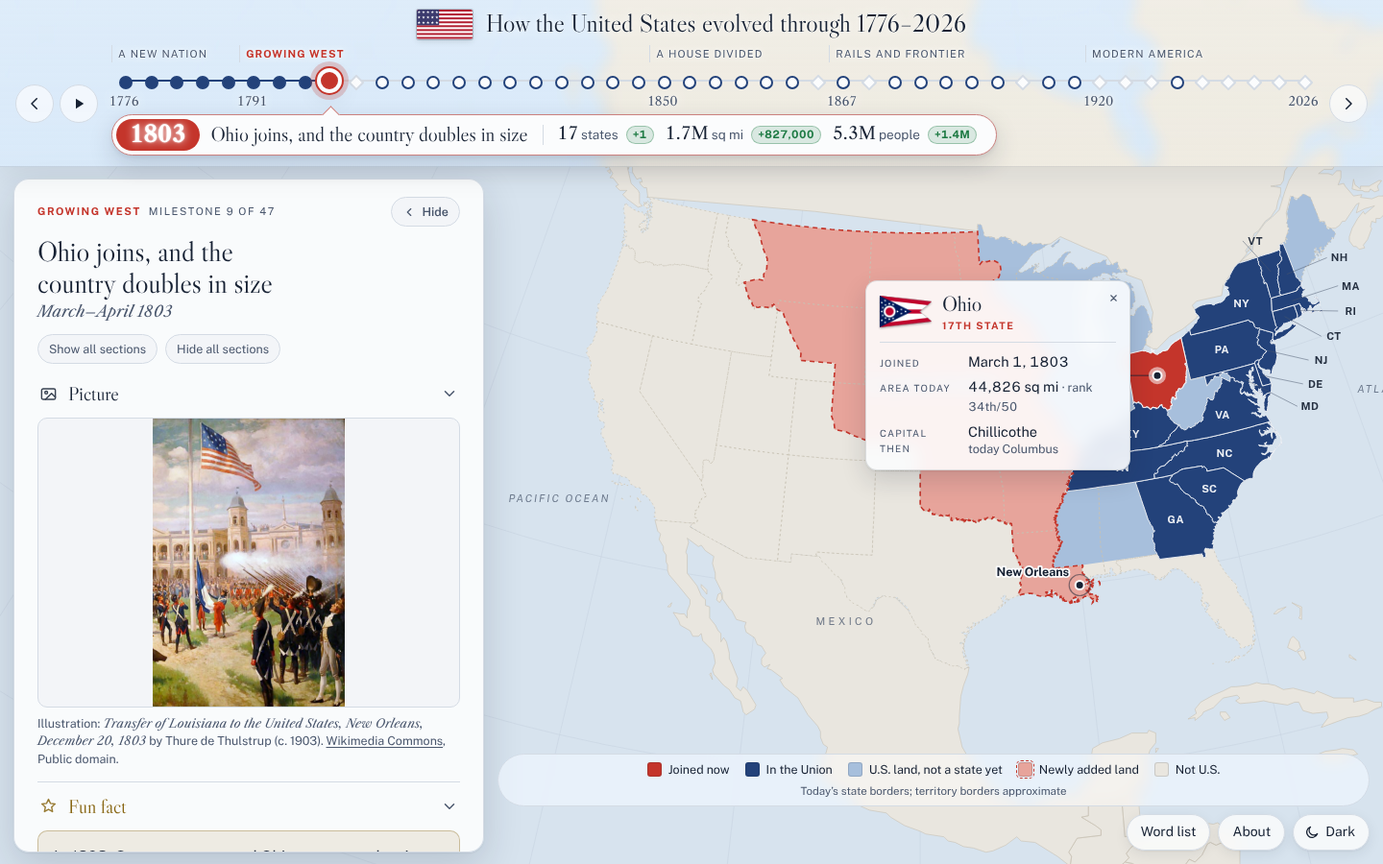
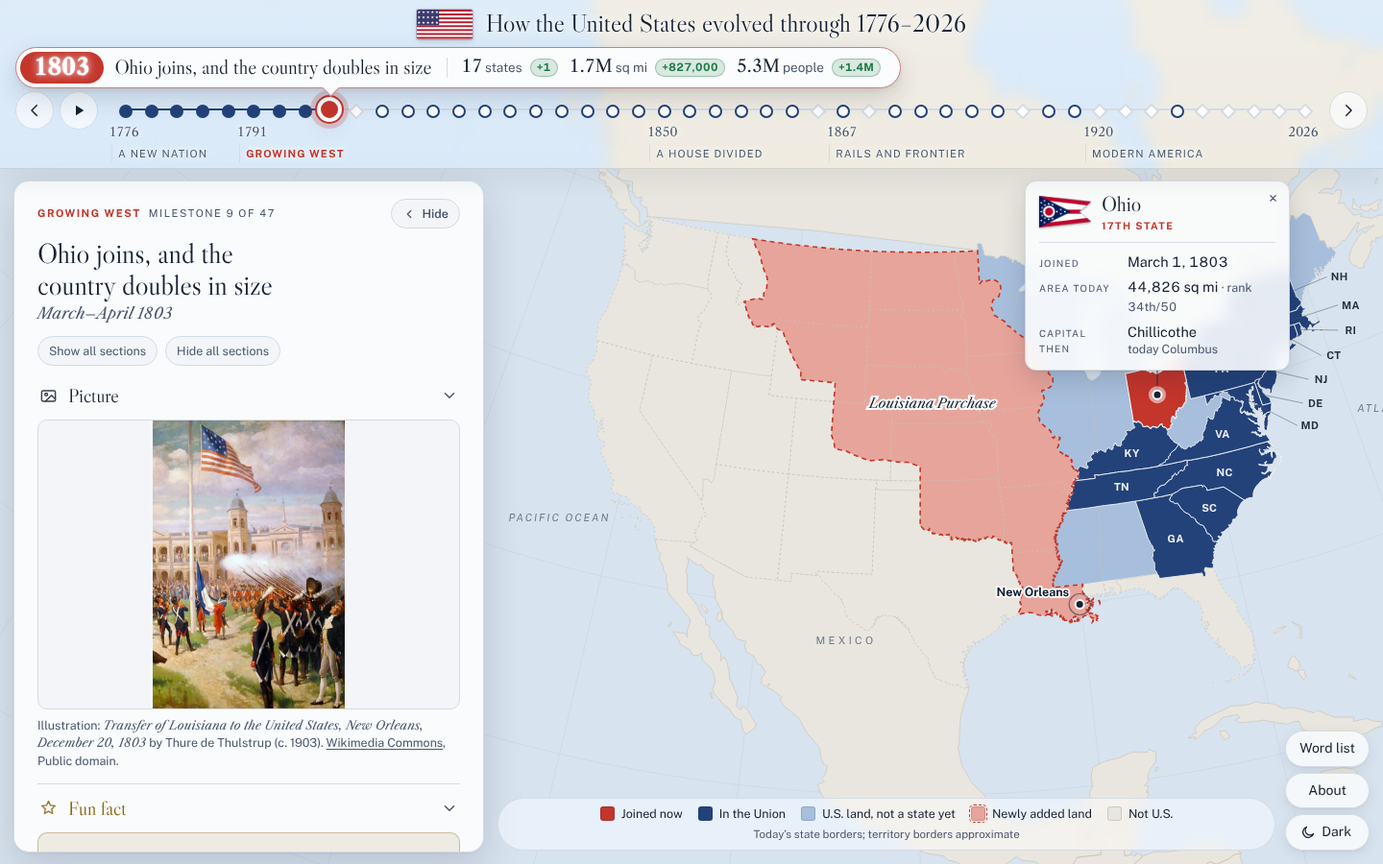
Reorder the top bar and stack the corner buttons
- Top bar, from top to bottom: the title with the flag of the day; the
  milestone caption (year, title, counts), now pointing down at the
  slider handle; the timeline with the year labels; and the era names
  (A New Nation, Growing West, ...) along the bottom.
- Word list, About and Dark/Light are stacked vertically in the bottom
  right corner, so the map key gets the full width beside them. The map
  reserves only the key's height at the bottom, and state bubbles keep
  clear of the button stack.
- On phones the caption sits above the timeline, and the buttons stay
  in a row under the map key.

Claude-Session: https://claude.ai/code/session_019zRrgJDS26ZMEPvqq3vbkH

diff --git a/index.html b/index.html
@@ -118,9 +118,11 @@ a { color: inherit; }
 .map-foot {
   position: absolute; z-index: 6; right: max(14px, env(safe-area-inset-right, 0px)); bottom: calc(14px + env(safe-area-inset-bottom, 0px));
   max-width: calc(100% - min(490px, 37vw) - 42px);
-  display: flex; flex-wrap: wrap; align-items: center; justify-content: flex-end; gap: 8px 10px;
+  display: flex; align-items: flex-end; justify-content: flex-end; gap: 10px;
 }
-.tools { display: flex; gap: 8px; flex: none; }
+.map-foot .legend { flex: 0 1 auto; min-width: 0; }
+.tools { display: flex; flex-direction: column; align-items: stretch; gap: 6px; flex: none; }
+.tools .btn-quiet { display: inline-flex; align-items: center; justify-content: center; gap: 6px; }
 .btn-quiet {
   border: 1px solid var(--rule); border-radius: 999px; padding: 7px 14px; font-size: 14px; cursor: pointer; color: var(--ink);
   background: color-mix(in srgb, var(--sheet) 82%, transparent); -webkit-backdrop-filter: blur(7px); backdrop-filter: blur(7px);
@@ -349,7 +351,7 @@ ul.why li::before { content: ""; position: absolute; left: 4px; top: .62em; widt
   padding-left: max(16px, env(safe-area-inset-left, 0px));
   padding-right: max(16px, env(safe-area-inset-right, 0px));
 }
-.tl-row { display: grid; grid-template-columns: auto minmax(0, 1fr) auto; align-items: center; gap: 14px; }
+.tl-row { display: grid; grid-template-columns: auto minmax(0, 1fr) auto; align-items: start; gap: 14px; }
 .tl-btns { display: flex; gap: 6px; }
 .round {
   width: 40px; height: 40px; border-radius: 50%; border: 1px solid var(--rule); background: var(--paper);
@@ -358,22 +360,22 @@ ul.why li::before { content: ""; position: absolute; left: 4px; top: .62em; widt
 .round:hover { border-color: var(--ink-2); }
 .round svg { width: 18px; height: 18px; fill: none; stroke: currentColor; stroke-width: 2; stroke-linecap: round; stroke-linejoin: round; }
 .round.play svg { fill: currentColor; stroke: none; }
-.track { position: relative; height: 122px; --thumb: 26px; min-width: 0; }
-.eras { position: absolute; left: 0; right: 0; top: 0; height: 18px; }
+.track { position: relative; height: 76px; --thumb: 26px; min-width: 0; }
+.eras { position: absolute; left: 0; right: 0; top: 56px; height: 18px; }
 .era-band { position: absolute; top: 0; height: 18px; font-size: 11px; letter-spacing: .1em; text-transform: uppercase; color: var(--ink-2); white-space: nowrap; overflow: hidden; text-overflow: ellipsis; border-left: 1px solid var(--rule); padding-left: 6px; line-height: 18px; }
 .era-band.cur { color: var(--new); font-weight: 700; }
-.ticks { position: absolute; left: 0; right: 0; top: 30px; height: 14px; pointer-events: none; }
-.rail { position: absolute; left: calc(var(--thumb) / 2); right: calc(var(--thumb) / 2); top: 36px; height: 2px; background: var(--rule); border-radius: 2px; }
+.ticks { position: absolute; left: 0; right: 0; top: 12px; height: 14px; pointer-events: none; }
+.rail { position: absolute; left: calc(var(--thumb) / 2); right: calc(var(--thumb) / 2); top: 18px; height: 2px; background: var(--rule); border-radius: 2px; }
 .rail .fill { position: absolute; left: 0; top: 0; bottom: 0; background: var(--union); border-radius: 2px; transition: width .3s; }
 .tick { position: absolute; top: 2px; width: 10px; height: 10px; margin-left: -5px; border-radius: 50%; background: var(--sheet); border: 2px solid var(--rule); }
 .tick.state { border-color: var(--union); }
 .tick.past { background: var(--union); border-color: var(--union); }
 .tick.past:not(.state) { background: var(--ink-2); border-color: var(--ink-2); }
 .tick:not(.state) { width: 8px; height: 8px; margin-left: -4px; top: 3px; border-radius: 1px; transform: rotate(45deg); }
-.ylabels { position: absolute; left: 0; right: 0; top: 50px; height: 18px; pointer-events: none; }
+.ylabels { position: absolute; left: 0; right: 0; top: 34px; height: 18px; pointer-events: none; }
 .ylabel { position: absolute; transform: translateX(-50%); font: 400 13px var(--f-serif); color: var(--ink-2); font-variant-numeric: lining-nums tabular-nums; }
 #slider {
-  position: absolute; left: 0; right: 0; top: 24px; width: 100%; height: 26px; margin: 0;
+  position: absolute; left: 0; right: 0; top: 6px; width: 100%; height: 26px; margin: 0;
   -webkit-appearance: none; appearance: none; background: transparent; cursor: pointer;
 }
 #slider::-webkit-slider-runnable-track { height: 26px; background: transparent; }
@@ -388,16 +390,17 @@ ul.why li::before { content: ""; position: absolute; left: 4px; top: .62em; widt
 #slider:focus-visible { outline: none; }
 #slider:focus-visible::-webkit-slider-thumb { box-shadow: 0 0 0 4px var(--focus); }
 #slider:focus-visible::-moz-range-thumb { box-shadow: 0 0 0 4px var(--focus); }
+.cap-row { position: relative; height: 46px; margin: 2px 0 0; }
 .tl-cap {
-  position: absolute; top: 72px; left: 0; z-index: 1; max-width: 100%;
+  position: absolute; top: 0; left: 0; z-index: 1; max-width: 100%;
   display: inline-flex; align-items: center; gap: 12px; padding: 4px 20px 4px 4px;
   background: var(--sheet); border: 1.5px solid color-mix(in srgb, var(--new) 55%, var(--rule)); border-radius: 999px;
   box-shadow: 0 2px 4px rgb(22 33 51 / .08), 0 10px 26px rgb(22 33 51 / .16);
   white-space: nowrap; transition: left .25s ease;
 }
 .tl-cap::before {
-  content: ""; position: absolute; top: -7px; left: var(--caret, 50%); width: 12px; height: 12px; margin-left: -6px;
-  background: var(--sheet); border-left: 1.5px solid color-mix(in srgb, var(--new) 55%, var(--rule)); border-top: 1.5px solid color-mix(in srgb, var(--new) 55%, var(--rule)); transform: rotate(45deg);
+  content: ""; position: absolute; bottom: -7px; left: var(--caret, 50%); width: 12px; height: 12px; margin-left: -6px;
+  background: var(--sheet); border-right: 1.5px solid color-mix(in srgb, var(--new) 55%, var(--rule)); border-bottom: 1.5px solid color-mix(in srgb, var(--new) 55%, var(--rule)); transform: rotate(45deg);
 }
 .cap-yr { flex: none; padding: 3px 14px 4px; border-radius: 999px; background: var(--new); color: #fff; font: 700 24px/1.1 var(--f-serif); letter-spacing: .01em; font-variant-numeric: lining-nums tabular-nums; }
 .cap-t { min-width: 0; overflow: hidden; text-overflow: ellipsis; font: 400 21px/1.25 var(--f-display); color: var(--ink); }
@@ -429,7 +432,7 @@ ul.why li::before { content: ""; position: absolute; left: 4px; top: .62em; widt
   .stage { position: static; order: 2; }
   .mapwrap { height: auto; }
   .map-foot { order: 3; position: static; max-width: none; display: block; }
-  .tools { padding: 10px 16px 12px; background: var(--sheet); border-bottom: 1px solid var(--rule); }
+  .tools { flex-direction: row; padding: 10px 16px 12px; background: var(--sheet); border-bottom: 1px solid var(--rule); }
   .btn-quiet { backdrop-filter: none; box-shadow: none; background: var(--paper); }
   .titlebar { gap: 10px; padding-bottom: 4px; }
   .titlebar h1 { font-size: 18px; }
@@ -452,13 +455,13 @@ ul.why li::before { content: ""; position: absolute; left: 4px; top: .62em; widt
   .ylabel:not(.edge) { display: none; }
   .tick { width: 6px; height: 6px; margin-left: -3px; top: 4px; border-width: 1.5px; }
   .tick:not(.state) { width: 5px; height: 5px; margin-left: -2.5px; top: 4.5px; }
-  .track { --thumb: 22px; height: 150px; }
+  .track { --thumb: 22px; height: 76px; }
   .cap-yr { font-size: 20px; }
   .tl-cap { white-space: normal; border-radius: 16px; align-items: flex-start; flex-wrap: wrap; padding: 4px 12px 6px 4px; }
   .cap-stats { flex-basis: 100%; margin: 2px 0 0 4px; padding-left: 0; border-left: 0; gap: 10px; flex-wrap: wrap; font-size: 12.5px; }
   .cap-stats .cs b.n { font-size: 16px; }
-  .track { height: auto; }
-  .tl-cap { position: relative; top: auto; left: 0 !important; margin: 72px 0 6px; max-width: 100%; }
+  .cap-row { height: auto; margin: 2px 0 10px; }
+  .tl-cap { position: relative; left: 0 !important; max-width: 100%; }
   .cap-t { font-size: 16.5px; padding-top: 3px; flex: 1 1 0; }
   .cap-stats { gap: 4px 12px; }
   #slider::-webkit-slider-thumb { width: 22px; height: 22px; margin-top: 2px; }
@@ -483,6 +486,9 @@ ul.why li::before { content: ""; position: absolute; left: 4px; top: .62em; widt
       </div>
       <h1>How the United States evolved through 1776–2026</h1>
     </div>
+    <div class="cap-row" id="cap-row">
+      <div class="tl-cap" id="tl-cap" aria-live="polite"><b class="cap-yr" id="yr">1776</b><span class="cap-t" id="cap-t"></span><span class="cap-stats" id="cap-stats"></span></div>
+    </div>
     <nav class="tl-row" aria-label="Timeline">
     <div class="tl-btns">
       <button class="round" id="btn-prev" type="button" aria-label="Previous milestone"><svg viewBox="0 0 24 24"><path d="M15 5l-7 7 7 7"/></svg></button>
@@ -494,7 +500,6 @@ ul.why li::before { content: ""; position: absolute; left: 4px; top: .62em; widt
       <div class="ticks" id="ticks"></div>
       <div class="ylabels" id="ylabels"></div>
       <input type="range" id="slider" min="0" max="1" step="1" value="0" aria-label="Choose a milestone">
-      <div class="tl-cap" id="tl-cap" aria-live="polite"><b class="cap-yr" id="yr">1776</b><span class="cap-t" id="cap-t"></span><span class="cap-stats" id="cap-stats"></span></div>
     </div>
     <div class="tl-btns">
       <button class="round" id="btn-next" type="button" aria-label="Next milestone"><svg viewBox="0 0 24 24"><path d="M9 5l7 7-7 7"/></svg></button>
@@ -930,9 +935,9 @@ function targetBox() {
 }
 // Space taken at the top and bottom by the glass bars (desktop, where they float over the map)
 function barInsets() {
-  const tl = $('.timeline'), ft = $('#map-foot');
+  const tl = $('.timeline'), lg = $('#legend');
   if (getComputedStyle(tl).position !== 'absolute') return [0, 0];
-  return [tl.offsetHeight + 4, ft.offsetHeight + 26];
+  return [tl.offsetHeight + 4, lg.offsetHeight + 34];
 }
 // Fit the frame, centered, into the map area between the bars
 function storyInset() {
@@ -1140,6 +1145,7 @@ function placeEach(A, F) {
   const placed = [], dots = A.map(a => [a.ax, a.ay]);
   const pinBox = !pin.hasAttribute('hidden') ? pin.getBoundingClientRect() : null, base = svg.getBoundingClientRect();
   const pinR = pinBox ? { x: pinBox.left - base.left, y: pinBox.top - base.top, w: pinBox.width, h: pinBox.height } : null;
+  const tb = $('.tools').getBoundingClientRect(), toolsR = { x: tb.left - base.left - 8, y: tb.top - base.top - 8, w: tb.width + 16, h: tb.height + 16 };
   for (const a of A.slice().sort((p, q) => p.ay - q.ay)) {
     const { w, h, ax, ay } = a, cands = [];
     for (const G of [28, 64]) cands.push(
@@ -1152,6 +1158,7 @@ function placeEach(A, F) {
       placed.forEach(o => cost += overlap(r, o) * 60);
       dots.forEach(d => { if (inside(d, r, 10)) cost += 4000; });
       if (pinR) cost += overlap(r, pinR) * 8;
+      cost += overlap(r, toolsR) * 60;
       if (!best || cost < best.cost) best = { ...r, cost };
     });
     a.x = best.x; a.y = best.y; a.side = null;
@@ -1216,14 +1223,14 @@ if (document.fonts && document.fonts.ready) document.fonts.ready.then(() => layo
 function renderMilestone(s) {
   $('#cap-t').textContent = s.title;
 }
-// keep the caption under the slider thumb, inside the track, with its caret pointing at the thumb
+// keep the caption above the slider handle, inside the bar, with its caret pointing down at the handle
 function placeCaption() {
-  const track = $('#track'), cap = $('#tl-cap');
+  const track = $('#track'), cap = $('#tl-cap'), row = $('#cap-row');
   const tw = track.clientWidth, thumb = parseFloat(getComputedStyle(track).getPropertyValue('--thumb')) || 22;
-  const x = thumb / 2 + (tw - thumb) * cur / (N - 1);
-  const w = cap.offsetWidth;
+  const x = track.getBoundingClientRect().left - row.getBoundingClientRect().left + thumb / 2 + (tw - thumb) * cur / (N - 1);
+  const w = cap.offsetWidth, rw = row.clientWidth;
   const inFlow = getComputedStyle(cap).position === 'relative';
-  const left = inFlow ? 0 : Math.max(0, Math.min(tw - w, x - w / 2));
+  const left = inFlow ? 0 : Math.max(0, Math.min(rw - w, x - w / 2));
   cap.style.left = left + 'px';
   cap.style.setProperty('--caret', Math.max(14, Math.min(w - 14, x - left)) + 'px');
 }

diff --git a/build/app.html b/build/app.html
@@ -112,9 +112,11 @@ a { color: inherit; }
 .map-foot {
   position: absolute; z-index: 6; right: max(14px, env(safe-area-inset-right, 0px)); bottom: calc(14px + env(safe-area-inset-bottom, 0px));
   max-width: calc(100% - min(490px, 37vw) - 42px);
-  display: flex; flex-wrap: wrap; align-items: center; justify-content: flex-end; gap: 8px 10px;
+  display: flex; align-items: flex-end; justify-content: flex-end; gap: 10px;
 }
-.tools { display: flex; gap: 8px; flex: none; }
+.map-foot .legend { flex: 0 1 auto; min-width: 0; }
+.tools { display: flex; flex-direction: column; align-items: stretch; gap: 6px; flex: none; }
+.tools .btn-quiet { display: inline-flex; align-items: center; justify-content: center; gap: 6px; }
 .btn-quiet {
   border: 1px solid var(--rule); border-radius: 999px; padding: 7px 14px; font-size: 14px; cursor: pointer; color: var(--ink);
   background: color-mix(in srgb, var(--sheet) 82%, transparent); -webkit-backdrop-filter: blur(7px); backdrop-filter: blur(7px);
@@ -343,7 +345,7 @@ ul.why li::before { content: ""; position: absolute; left: 4px; top: .62em; widt
   padding-left: max(16px, env(safe-area-inset-left, 0px));
   padding-right: max(16px, env(safe-area-inset-right, 0px));
 }
-.tl-row { display: grid; grid-template-columns: auto minmax(0, 1fr) auto; align-items: center; gap: 14px; }
+.tl-row { display: grid; grid-template-columns: auto minmax(0, 1fr) auto; align-items: start; gap: 14px; }
 .tl-btns { display: flex; gap: 6px; }
 .round {
   width: 40px; height: 40px; border-radius: 50%; border: 1px solid var(--rule); background: var(--paper);
@@ -352,22 +354,22 @@ ul.why li::before { content: ""; position: absolute; left: 4px; top: .62em; widt
 .round:hover { border-color: var(--ink-2); }
 .round svg { width: 18px; height: 18px; fill: none; stroke: currentColor; stroke-width: 2; stroke-linecap: round; stroke-linejoin: round; }
 .round.play svg { fill: currentColor; stroke: none; }
-.track { position: relative; height: 122px; --thumb: 26px; min-width: 0; }
-.eras { position: absolute; left: 0; right: 0; top: 0; height: 18px; }
+.track { position: relative; height: 76px; --thumb: 26px; min-width: 0; }
+.eras { position: absolute; left: 0; right: 0; top: 56px; height: 18px; }
 .era-band { position: absolute; top: 0; height: 18px; font-size: 11px; letter-spacing: .1em; text-transform: uppercase; color: var(--ink-2); white-space: nowrap; overflow: hidden; text-overflow: ellipsis; border-left: 1px solid var(--rule); padding-left: 6px; line-height: 18px; }
 .era-band.cur { color: var(--new); font-weight: 700; }
-.ticks { position: absolute; left: 0; right: 0; top: 30px; height: 14px; pointer-events: none; }
-.rail { position: absolute; left: calc(var(--thumb) / 2); right: calc(var(--thumb) / 2); top: 36px; height: 2px; background: var(--rule); border-radius: 2px; }
+.ticks { position: absolute; left: 0; right: 0; top: 12px; height: 14px; pointer-events: none; }
+.rail { position: absolute; left: calc(var(--thumb) / 2); right: calc(var(--thumb) / 2); top: 18px; height: 2px; background: var(--rule); border-radius: 2px; }
 .rail .fill { position: absolute; left: 0; top: 0; bottom: 0; background: var(--union); border-radius: 2px; transition: width .3s; }
 .tick { position: absolute; top: 2px; width: 10px; height: 10px; margin-left: -5px; border-radius: 50%; background: var(--sheet); border: 2px solid var(--rule); }
 .tick.state { border-color: var(--union); }
 .tick.past { background: var(--union); border-color: var(--union); }
 .tick.past:not(.state) { background: var(--ink-2); border-color: var(--ink-2); }
 .tick:not(.state) { width: 8px; height: 8px; margin-left: -4px; top: 3px; border-radius: 1px; transform: rotate(45deg); }
-.ylabels { position: absolute; left: 0; right: 0; top: 50px; height: 18px; pointer-events: none; }
+.ylabels { position: absolute; left: 0; right: 0; top: 34px; height: 18px; pointer-events: none; }
 .ylabel { position: absolute; transform: translateX(-50%); font: 400 13px var(--f-serif); color: var(--ink-2); font-variant-numeric: lining-nums tabular-nums; }
 #slider {
-  position: absolute; left: 0; right: 0; top: 24px; width: 100%; height: 26px; margin: 0;
+  position: absolute; left: 0; right: 0; top: 6px; width: 100%; height: 26px; margin: 0;
   -webkit-appearance: none; appearance: none; background: transparent; cursor: pointer;
 }
 #slider::-webkit-slider-runnable-track { height: 26px; background: transparent; }
@@ -382,16 +384,17 @@ ul.why li::before { content: ""; position: absolute; left: 4px; top: .62em; widt
 #slider:focus-visible { outline: none; }
 #slider:focus-visible::-webkit-slider-thumb { box-shadow: 0 0 0 4px var(--focus); }
 #slider:focus-visible::-moz-range-thumb { box-shadow: 0 0 0 4px var(--focus); }
+.cap-row { position: relative; height: 46px; margin: 2px 0 0; }
 .tl-cap {
-  position: absolute; top: 72px; left: 0; z-index: 1; max-width: 100%;
+  position: absolute; top: 0; left: 0; z-index: 1; max-width: 100%;
   display: inline-flex; align-items: center; gap: 12px; padding: 4px 20px 4px 4px;
   background: var(--sheet); border: 1.5px solid color-mix(in srgb, var(--new) 55%, var(--rule)); border-radius: 999px;
   box-shadow: 0 2px 4px rgb(22 33 51 / .08), 0 10px 26px rgb(22 33 51 / .16);
   white-space: nowrap; transition: left .25s ease;
 }
 .tl-cap::before {
-  content: ""; position: absolute; top: -7px; left: var(--caret, 50%); width: 12px; height: 12px; margin-left: -6px;
-  background: var(--sheet); border-left: 1.5px solid color-mix(in srgb, var(--new) 55%, var(--rule)); border-top: 1.5px solid color-mix(in srgb, var(--new) 55%, var(--rule)); transform: rotate(45deg);
+  content: ""; position: absolute; bottom: -7px; left: var(--caret, 50%); width: 12px; height: 12px; margin-left: -6px;
+  background: var(--sheet); border-right: 1.5px solid color-mix(in srgb, var(--new) 55%, var(--rule)); border-bottom: 1.5px solid color-mix(in srgb, var(--new) 55%, var(--rule)); transform: rotate(45deg);
 }
 .cap-yr { flex: none; padding: 3px 14px 4px; border-radius: 999px; background: var(--new); color: #fff; font: 700 24px/1.1 var(--f-serif); letter-spacing: .01em; font-variant-numeric: lining-nums tabular-nums; }
 .cap-t { min-width: 0; overflow: hidden; text-overflow: ellipsis; font: 400 21px/1.25 var(--f-display); color: var(--ink); }
@@ -423,7 +426,7 @@ ul.why li::before { content: ""; position: absolute; left: 4px; top: .62em; widt
   .stage { position: static; order: 2; }
   .mapwrap { height: auto; }
   .map-foot { order: 3; position: static; max-width: none; display: block; }
-  .tools { padding: 10px 16px 12px; background: var(--sheet); border-bottom: 1px solid var(--rule); }
+  .tools { flex-direction: row; padding: 10px 16px 12px; background: var(--sheet); border-bottom: 1px solid var(--rule); }
   .btn-quiet { backdrop-filter: none; box-shadow: none; background: var(--paper); }
   .titlebar { gap: 10px; padding-bottom: 4px; }
   .titlebar h1 { font-size: 18px; }
@@ -446,13 +449,13 @@ ul.why li::before { content: ""; position: absolute; left: 4px; top: .62em; widt
   .ylabel:not(.edge) { display: none; }
   .tick { width: 6px; height: 6px; margin-left: -3px; top: 4px; border-width: 1.5px; }
   .tick:not(.state) { width: 5px; height: 5px; margin-left: -2.5px; top: 4.5px; }
-  .track { --thumb: 22px; height: 150px; }
+  .track { --thumb: 22px; height: 76px; }
   .cap-yr { font-size: 20px; }
   .tl-cap { white-space: normal; border-radius: 16px; align-items: flex-start; flex-wrap: wrap; padding: 4px 12px 6px 4px; }
   .cap-stats { flex-basis: 100%; margin: 2px 0 0 4px; padding-left: 0; border-left: 0; gap: 10px; flex-wrap: wrap; font-size: 12.5px; }
   .cap-stats .cs b.n { font-size: 16px; }
-  .track { height: auto; }
-  .tl-cap { position: relative; top: auto; left: 0 !important; margin: 72px 0 6px; max-width: 100%; }
+  .cap-row { height: auto; margin: 2px 0 10px; }
+  .tl-cap { position: relative; left: 0 !important; max-width: 100%; }
   .cap-t { font-size: 16.5px; padding-top: 3px; flex: 1 1 0; }
   .cap-stats { gap: 4px 12px; }
   #slider::-webkit-slider-thumb { width: 22px; height: 22px; margin-top: 2px; }
@@ -476,6 +479,9 @@ ul.why li::before { content: ""; position: absolute; left: 4px; top: .62em; widt
       </div>
       <h1>How the United States evolved through 1776–2026</h1>
     </div>
+    <div class="cap-row" id="cap-row">
+      <div class="tl-cap" id="tl-cap" aria-live="polite"><b class="cap-yr" id="yr">1776</b><span class="cap-t" id="cap-t"></span><span class="cap-stats" id="cap-stats"></span></div>
+    </div>
     <nav class="tl-row" aria-label="Timeline">
     <div class="tl-btns">
       <button class="round" id="btn-prev" type="button" aria-label="Previous milestone"><svg viewBox="0 0 24 24"><path d="M15 5l-7 7 7 7"/></svg></button>
@@ -487,7 +493,6 @@ ul.why li::before { content: ""; position: absolute; left: 4px; top: .62em; widt
       <div class="ticks" id="ticks"></div>
       <div class="ylabels" id="ylabels"></div>
       <input type="range" id="slider" min="0" max="1" step="1" value="0" aria-label="Choose a milestone">
-      <div class="tl-cap" id="tl-cap" aria-live="polite"><b class="cap-yr" id="yr">1776</b><span class="cap-t" id="cap-t"></span><span class="cap-stats" id="cap-stats"></span></div>
     </div>
     <div class="tl-btns">
       <button class="round" id="btn-next" type="button" aria-label="Next milestone"><svg viewBox="0 0 24 24"><path d="M9 5l7 7-7 7"/></svg></button>
@@ -758,9 +763,9 @@ function targetBox() {
 }
 // Space taken at the top and bottom by the glass bars (desktop, where they float over the map)
 function barInsets() {
-  const tl = $('.timeline'), ft = $('#map-foot');
+  const tl = $('.timeline'), lg = $('#legend');
   if (getComputedStyle(tl).position !== 'absolute') return [0, 0];
-  return [tl.offsetHeight + 4, ft.offsetHeight + 26];
+  return [tl.offsetHeight + 4, lg.offsetHeight + 34];
 }
 // Fit the frame, centered, into the map area between the bars
 function storyInset() {
@@ -968,6 +973,7 @@ function placeEach(A, F) {
   const placed = [], dots = A.map(a => [a.ax, a.ay]);
   const pinBox = !pin.hasAttribute('hidden') ? pin.getBoundingClientRect() : null, base = svg.getBoundingClientRect();
   const pinR = pinBox ? { x: pinBox.left - base.left, y: pinBox.top - base.top, w: pinBox.width, h: pinBox.height } : null;
+  const tb = $('.tools').getBoundingClientRect(), toolsR = { x: tb.left - base.left - 8, y: tb.top - base.top - 8, w: tb.width + 16, h: tb.height + 16 };
   for (const a of A.slice().sort((p, q) => p.ay - q.ay)) {
     const { w, h, ax, ay } = a, cands = [];
     for (const G of [28, 64]) cands.push(
@@ -980,6 +986,7 @@ function placeEach(A, F) {
       placed.forEach(o => cost += overlap(r, o) * 60);
       dots.forEach(d => { if (inside(d, r, 10)) cost += 4000; });
       if (pinR) cost += overlap(r, pinR) * 8;
+      cost += overlap(r, toolsR) * 60;
       if (!best || cost < best.cost) best = { ...r, cost };
     });
     a.x = best.x; a.y = best.y; a.side = null;
@@ -1044,14 +1051,14 @@ if (document.fonts && document.fonts.ready) document.fonts.ready.then(() => layo
 function renderMilestone(s) {
   $('#cap-t').textContent = s.title;
 }
-// keep the caption under the slider thumb, inside the track, with its caret pointing at the thumb
+// keep the caption above the slider handle, inside the bar, with its caret pointing down at the handle
 function placeCaption() {
-  const track = $('#track'), cap = $('#tl-cap');
+  const track = $('#track'), cap = $('#tl-cap'), row = $('#cap-row');
   const tw = track.clientWidth, thumb = parseFloat(getComputedStyle(track).getPropertyValue('--thumb')) || 22;
-  const x = thumb / 2 + (tw - thumb) * cur / (N - 1);
-  const w = cap.offsetWidth;
+  const x = track.getBoundingClientRect().left - row.getBoundingClientRect().left + thumb / 2 + (tw - thumb) * cur / (N - 1);
+  const w = cap.offsetWidth, rw = row.clientWidth;
   const inFlow = getComputedStyle(cap).position === 'relative';
-  const left = inFlow ? 0 : Math.max(0, Math.min(tw - w, x - w / 2));
+  const left = inFlow ? 0 : Math.max(0, Math.min(rw - w, x - w / 2));
   cap.style.left = left + 'px';
   cap.style.setProperty('--caret', Math.max(14, Math.min(w - 14, x - left)) + 'px');
 }

diff --git a/README.md b/README.md
@@ -22,7 +22,7 @@ It is written for a general audience and for people learning English. Each miles
 - **A fun fact for every milestone,** shown just below the picture, to make each moment easy to remember. For example: the Wright brothers tossed a coin to decide who would fly first.
 - **One key person per milestone,** tagged by field: politics, economy or science.
 - **Written for English learners.** Sentences are short and plain. 41 harder words, such as *ratify*, *annex* and *suffrage*, show a simple meaning when tapped. A word list collects them all.
-- **A timeline slider across the top**, under the title and the flag of the day, with previous/next buttons, autoplay and keyboard navigation (← →). Under the slider's handle, a caption shows the milestone's year, its one-line title, and the number of states, land area and people, with green “+” badges for how much each grew since the previous milestone (for example, +1 state, +827,000 sq mi, +1.4M people in 1803). The top bar is see-through frosted glass over the full-screen map. Word list, About and the light/dark switch sit at the bottom right of the map.
+- **A timeline slider across the top**, under the title and the flag of the day, with previous/next buttons, autoplay and keyboard navigation (← →). Just above the slider, a caption points down at the current milestone and shows its year, its one-line title, and the number of states, land area and people, with green “+” badges for how much each grew since the previous milestone (for example, +1 state, +827,000 sq mi, +1.4M people in 1803). The top bar is see-through frosted glass over the full-screen map. The era names run along the bottom of the timeline. Word list, About and the light/dark switch are stacked at the bottom right of the map, next to the map key.
 - **Pictures with credits.** Illustrations and portraits come from Wikimedia Commons. Each one shows its title, artist, date, license and a link to its source page.
 - **Easy to run and share.** It is a single static page with no server and no build step needed to view it. It has light and dark modes, with a switch at the bottom right of the map, and it works on phones. Each milestone has its own link, for example `index.html#1803`.
 
